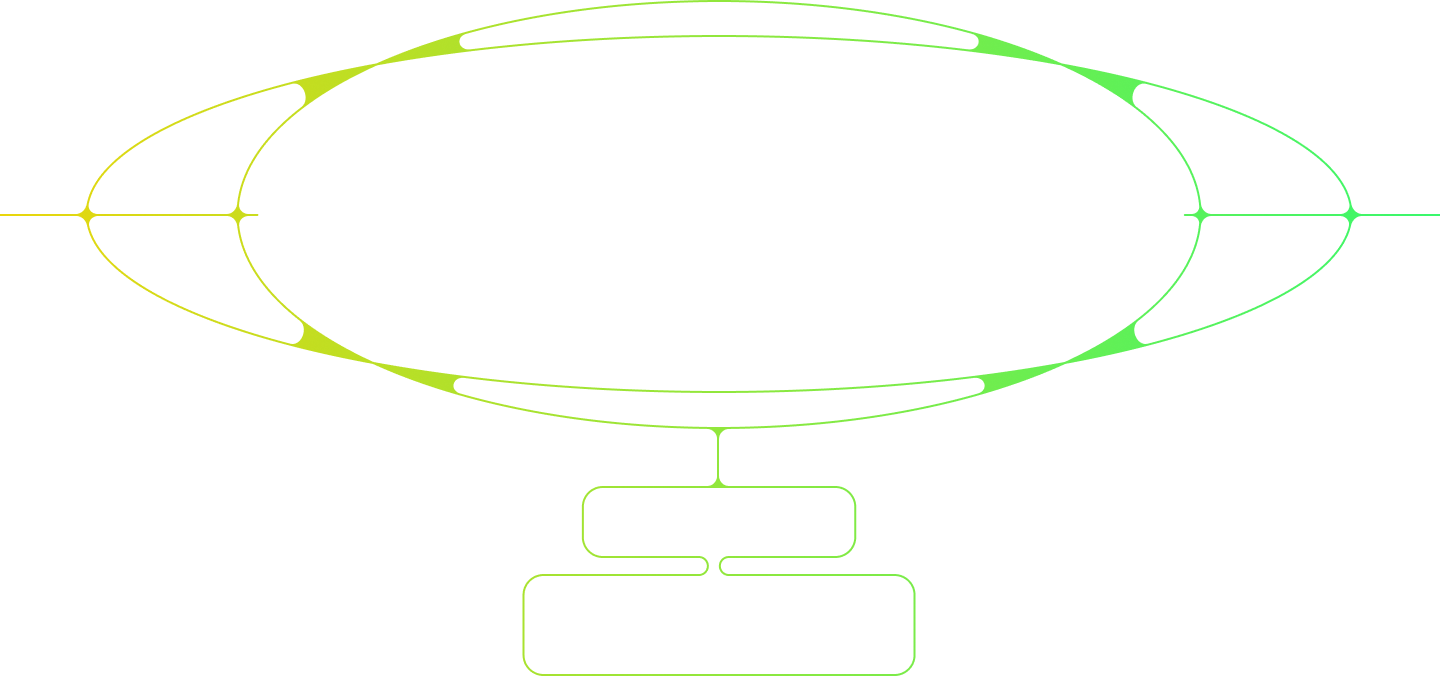
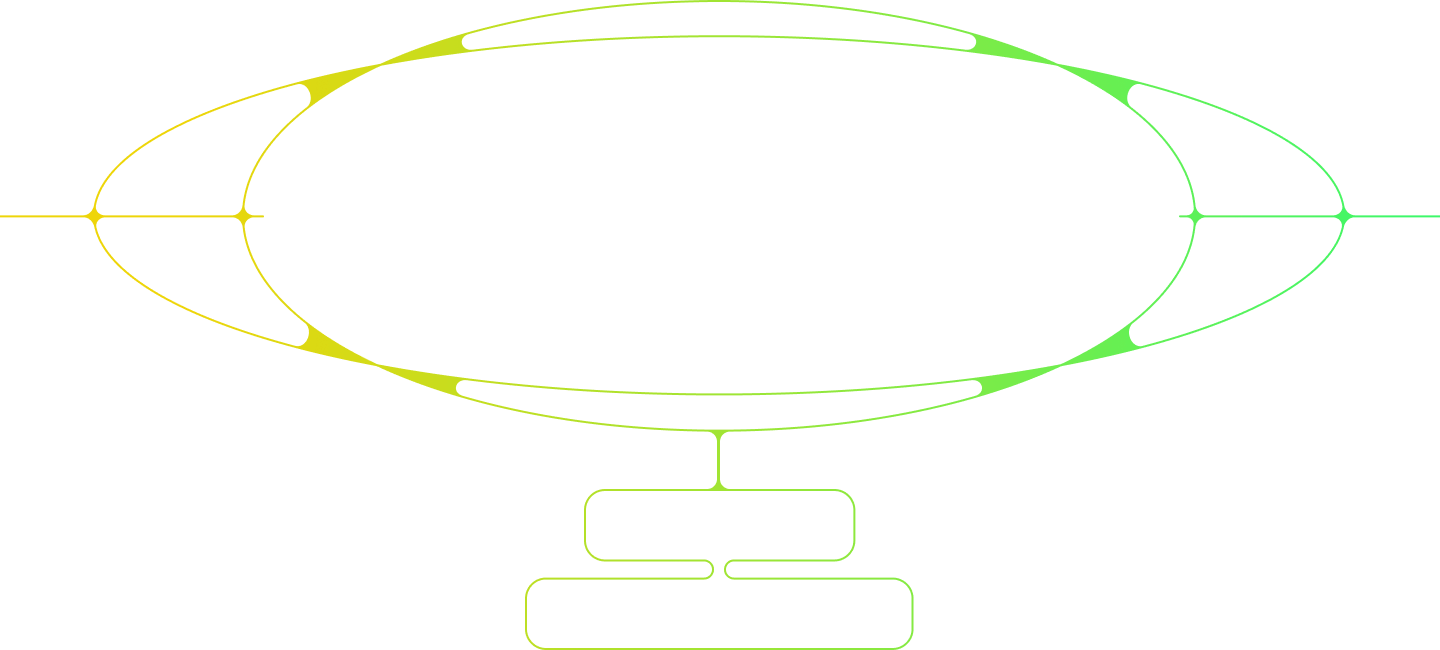
feat: Architecture md viewports

diff --git a/src/components/Safenet/Architecture/index.tsx b/src/components/Safenet/Architecture/index.tsx
@@ -6,6 +6,29 @@ import BackButton from '@/public/images/Safenet/Architecture/back-button.svg'
 import NextButton from '@/public/images/Safenet/Architecture/next-button.svg'
 import { useState } from 'react'
 
+const userSteps: Array<{ step: number; text: string; endAdorment?: any }> = [
+  {
+    step: 1,
+    text: 'Checks policies and issues resource-lock',
+  },
+  {
+    step: 2,
+    text: 'Gets liquidity',
+  },
+  {
+    step: 3,
+    text: 'Executes transaction intent',
+  },
+  {
+    step: 4,
+    text: 'Settles on user account with execution proof',
+  },
+  {
+    step: 5,
+    text: 'Returns liquidity',
+  },
+]
+
 const GradientStep = ({ stepNumber }: { stepNumber: number }) => {
   return <div className={css.stepCircle}>{stepNumber}</div>
 }
@@ -147,6 +170,7 @@ const Architecture = () => {
           <Grid item md={4} className={css.blockItem}>
             <img src="/images/Safenet/Architecture/processor.png" alt="Safe processor" className={css.blockImage} />
             <Typography className={css.blockTitle}>Processors</Typography>
+
             <ul>
               <li>Connect to user accounts and orchestrate optimal execution of transaction intents.</li>
               <li>Provide execution guarantees like security checks and custom policies.</li>
@@ -158,52 +182,20 @@ const Architecture = () => {
           </Grid>
 
           <Grid item md={4} className={css.midItem}>
-            <Typography className={css.midItemTitle}>USER</Typography>
+            <div className={css.midItemHeader}>
+              <Typography className={css.midItemTitle}>USER</Typography>
+              <Typography className={css.midItemText}>Initiates transaction intent</Typography>
+            </div>
 
             <Grid container className={css.midItemContainer}>
-              <Grid item md={12} className={css.step}>
-                <div className={css.stepContent}>
-                  <GradientStep stepNumber={1} />
-                  <Typography className={css.stepText}>User signs transaction intent</Typography>
-                </div>
-              </Grid>
-
-              <Grid item md={12} className={css.step}>
-                <div className={css.stepContent}>
-                  <GradientStep stepNumber={2} />
-                  <Typography className={css.stepText}>Checks policies and issues resource-lock</Typography>
-                </div>
-              </Grid>
-
-              <Grid item md={12} className={css.step}>
-                <div className={css.stepContent}>
-                  <GradientStep stepNumber={3} />
-                  <Typography className={css.stepText}>Provides liquidity</Typography>
-                </div>
-              </Grid>
-
-              <Grid item md={12} className={css.step}>
-                <div className={css.stepContent}>
-                  <GradientStep stepNumber={4} />
-                  <Typography className={css.stepText}>Executes transaction intent</Typography>
-                </div>
-              </Grid>
-
-              <Grid item md={12} className={css.step}>
-                <div className={css.stepContent}>
-                  <GradientStep stepNumber={5} />
-                  <Typography className={css.stepText}>
-                    Debits user by providing a validity proof of executed intent
-                  </Typography>
-                </div>
-              </Grid>
-
-              <Grid item md={12} className={css.step}>
-                <div className={css.stepContent}>
-                  <GradientStep stepNumber={6} />
-                  <Typography className={css.stepText}>Returns liquidity</Typography>
-                </div>
-              </Grid>
+              {userSteps.map(({ step, text }) => (
+                <Grid item md={12} className={css.step}>
+                  <div className={css.stepContent}>
+                    <GradientStep stepNumber={step} />
+                    <Typography className={css.stepText}>{text}</Typography>
+                  </div>
+                </Grid>
+              ))}
             </Grid>
           </Grid>
 

diff --git a/src/components/Safenet/Architecture/styles.module.css b/src/components/Safenet/Architecture/styles.module.css
@@ -24,7 +24,7 @@
   width: 100%;
   height: 980px;
 
-  top: -250px;
+  top: -276px;
 }
 
 .contentWrapper {
@@ -51,11 +51,6 @@
   font-style: italic;
 }
 
-.gridContainer {
-  margin-top: 286px;
-  position: relative;
-}
-
 .midItem,
 .blockItem {
   display: flex;
@@ -66,26 +61,32 @@
 }
 
 .blockItem {
-  padding: 150px 32px;
+  padding: 116px 32px 0px;
+}
+
+.blockItem ul {
+  font-size: 18px;
+  line-height: 28px;
+  padding-left: 26px;
+  margin-bottom: 0px;
 }
 
 .midItemTitle {
-  margin-top: -64px;
   font-size: 24px;
   line-height: 32px;
   font-weight: 400;
 }
 
 .midItemContainer {
-  margin-top: 34px;
+  margin-top: 44px;
   align-items: center;
   justify-content: center;
-  gap: 19px;
+  gap: 18px;
 }
 
 .blockImage {
   position: absolute;
-  top: -106px;
+  top: -126px;
 }
 
 .blockTitle {
@@ -149,7 +150,7 @@
 
 .chipsContainer {
   padding-left: 24px;
-  margin-top: 16px;
+  margin-top: 24px;
   display: flex;
   flex-direction: row;
   flex-wrap: wrap;
@@ -201,19 +202,29 @@
 
   .gridContainer {
     display: flex;
+    margin-top: 370px;
+    position: relative;
   }
 
   .shapes {
     position: absolute;
     top: 0;
+    width: 100%;
   }
 
-  .step:nth-of-type(1) {
-    height: 100px;
-    margin: 0px;
+  .midItemHeader {
+    margin-top: -156px;
+    display: flex;
+    flex-direction: column;
+    align-items: center;
+    gap: 54px;
   }
 
-  .step:nth-of-type(4) {
+  .step:nth-of-type(2) {
+    margin-top: 3px;
+  }
+
+  .step:nth-of-type(3) {
     border: 2px solid var(--mui-palette-primary-main);
   }
 }
@@ -221,15 +232,19 @@
 @media (min-width: 1630px) {
   .shapes {
     width: 100%;
-    height: 590px;
+    height: 490px;
   }
 
-  .step:nth-of-type(1) {
-    margin-left: 68px;
+  .midItemContainer {
+    gap: 19px;
   }
 
-  .step:nth-of-type(4) {
-    height: 80px;
+  .step {
+    height: 81px;
+  }
+
+  .step:nth-of-type(3) {
+    height: 82px;
     border-radius: 22px;
     margin: -1px 8px 2px 11px;
   }
